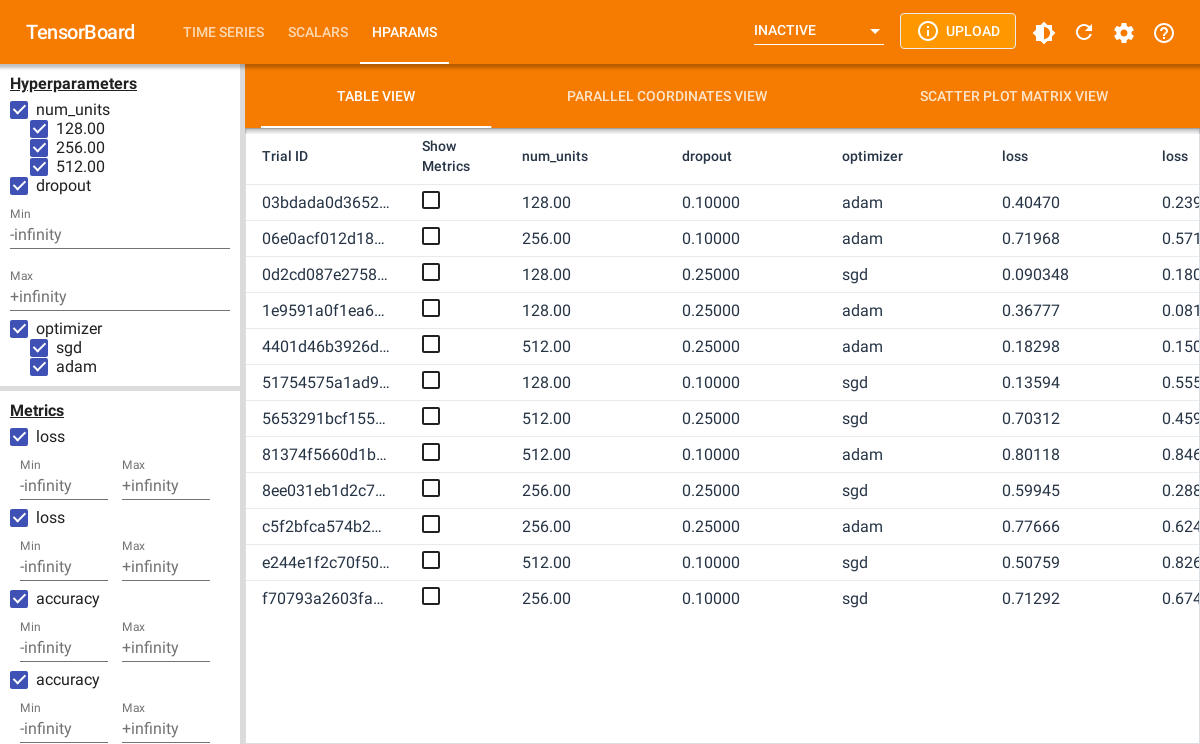
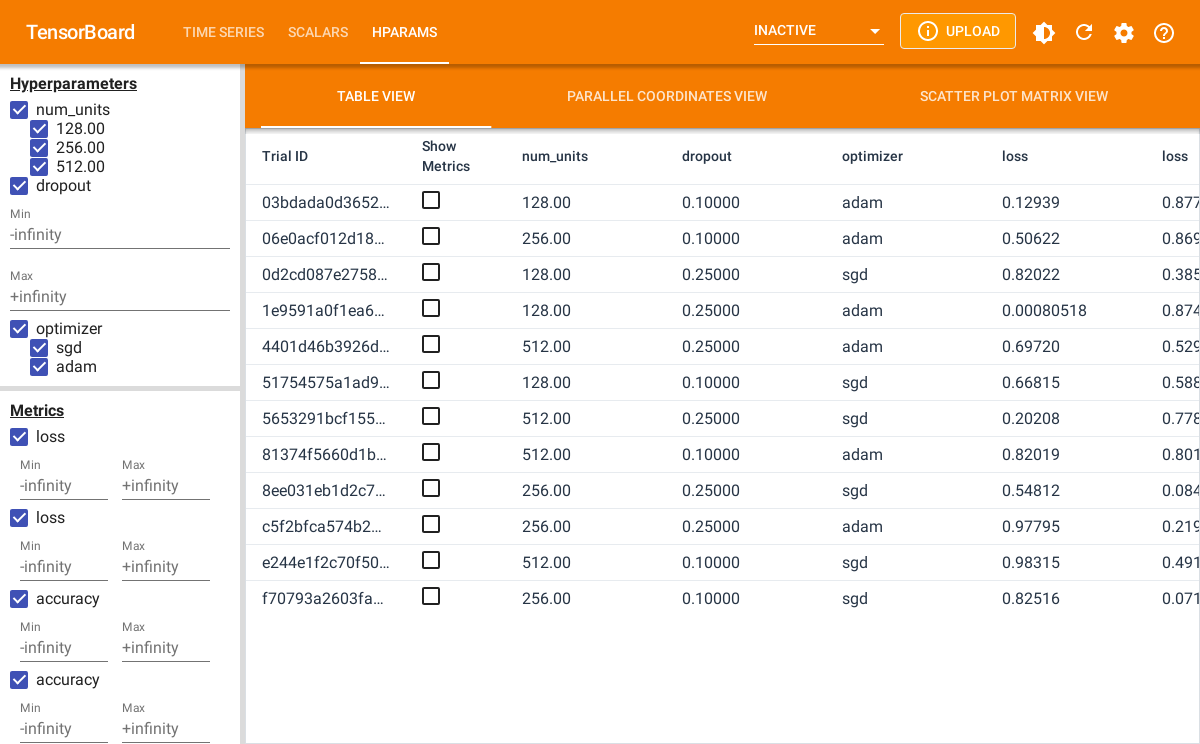
Deploying to gh-pages from @ mlverse/tfevents@a176a4ae159101cf80954fbd7836faf5f0a559c1 🚀

diff --git a/articles/hparams.html b/articles/hparams.html
@@ -197,80 +197,80 @@ sets of hyperparameters.</p>
 <code>temp</code> will be filled with event files.</p>
 <div class="sourceCode" id="cb7"><pre class="downlit sourceCode r">
 <code class="sourceCode R"><span><span class="fu">fs</span><span class="fu">::</span><span class="fu"><a href="https://fs.r-lib.org/reference/dir_tree.html" class="external-link">dir_tree</a></span><span class="op">(</span><span class="va">temp</span><span class="op">)</span></span>
-<span><span class="co">#&gt; <span style="color: #0000BB; font-weight: bold;">/tmp/Rtmpn442bn/logdir1af85866de11</span></span></span>
-<span><span class="co">#&gt; ├── events.out.tfevents.1677663946.v2</span></span>
-<span><span class="co">#&gt; ├── <span style="color: #0000BB; font-weight: bold;">fcepebyhnlqvoty</span></span></span>
-<span><span class="co">#&gt; │   ├── events.out.tfevents.1677663946.v2</span></span>
+<span><span class="co">#&gt; <span style="color: #0000BB; font-weight: bold;">/tmp/RtmpHjZciD/logdir1a6936c532d</span></span></span>
+<span><span class="co">#&gt; ├── <span style="color: #0000BB; font-weight: bold;">ballggycqmbbayz</span></span></span>
+<span><span class="co">#&gt; │   ├── events.out.tfevents.1677748114.v2</span></span>
 <span><span class="co">#&gt; │   ├── <span style="color: #0000BB; font-weight: bold;">train</span></span></span>
-<span><span class="co">#&gt; │   │   └── events.out.tfevents.1677663946.v2</span></span>
+<span><span class="co">#&gt; │   │   └── events.out.tfevents.1677748114.v2</span></span>
 <span><span class="co">#&gt; │   └── <span style="color: #0000BB; font-weight: bold;">valid</span></span></span>
-<span><span class="co">#&gt; │       └── events.out.tfevents.1677663946.v2</span></span>
-<span><span class="co">#&gt; ├── <span style="color: #0000BB; font-weight: bold;">idkndnxreahjifk</span></span></span>
-<span><span class="co">#&gt; │   ├── events.out.tfevents.1677663948.v2</span></span>
+<span><span class="co">#&gt; │       └── events.out.tfevents.1677748114.v2</span></span>
+<span><span class="co">#&gt; ├── <span style="color: #0000BB; font-weight: bold;">dqmiqksmjxnaqnr</span></span></span>
+<span><span class="co">#&gt; │   ├── events.out.tfevents.1677748113.v2</span></span>
 <span><span class="co">#&gt; │   ├── <span style="color: #0000BB; font-weight: bold;">train</span></span></span>
-<span><span class="co">#&gt; │   │   └── events.out.tfevents.1677663948.v2</span></span>
+<span><span class="co">#&gt; │   │   └── events.out.tfevents.1677748113.v2</span></span>
 <span><span class="co">#&gt; │   └── <span style="color: #0000BB; font-weight: bold;">valid</span></span></span>
-<span><span class="co">#&gt; │       └── events.out.tfevents.1677663948.v2</span></span>
-<span><span class="co">#&gt; ├── <span style="color: #0000BB; font-weight: bold;">kbhxfctzqhmdhev</span></span></span>
-<span><span class="co">#&gt; │   ├── events.out.tfevents.1677663947.v2</span></span>
+<span><span class="co">#&gt; │       └── events.out.tfevents.1677748113.v2</span></span>
+<span><span class="co">#&gt; ├── events.out.tfevents.1677748112.v2</span></span>
+<span><span class="co">#&gt; ├── <span style="color: #0000BB; font-weight: bold;">fcwxtfrtdmqofeg</span></span></span>
+<span><span class="co">#&gt; │   ├── events.out.tfevents.1677748114.v2</span></span>
 <span><span class="co">#&gt; │   ├── <span style="color: #0000BB; font-weight: bold;">train</span></span></span>
-<span><span class="co">#&gt; │   │   └── events.out.tfevents.1677663947.v2</span></span>
+<span><span class="co">#&gt; │   │   └── events.out.tfevents.1677748114.v2</span></span>
 <span><span class="co">#&gt; │   └── <span style="color: #0000BB; font-weight: bold;">valid</span></span></span>
-<span><span class="co">#&gt; │       └── events.out.tfevents.1677663947.v2</span></span>
-<span><span class="co">#&gt; ├── <span style="color: #0000BB; font-weight: bold;">lsxbbtusrtdlmps</span></span></span>
-<span><span class="co">#&gt; │   ├── events.out.tfevents.1677663947.v2</span></span>
+<span><span class="co">#&gt; │       └── events.out.tfevents.1677748114.v2</span></span>
+<span><span class="co">#&gt; ├── <span style="color: #0000BB; font-weight: bold;">fjzdzbfmulwoxxc</span></span></span>
+<span><span class="co">#&gt; │   ├── events.out.tfevents.1677748113.v2</span></span>
 <span><span class="co">#&gt; │   ├── <span style="color: #0000BB; font-weight: bold;">train</span></span></span>
-<span><span class="co">#&gt; │   │   └── events.out.tfevents.1677663947.v2</span></span>
+<span><span class="co">#&gt; │   │   └── events.out.tfevents.1677748113.v2</span></span>
 <span><span class="co">#&gt; │   └── <span style="color: #0000BB; font-weight: bold;">valid</span></span></span>
-<span><span class="co">#&gt; │       └── events.out.tfevents.1677663947.v2</span></span>
-<span><span class="co">#&gt; ├── <span style="color: #0000BB; font-weight: bold;">mgilfmcrhqbultn</span></span></span>
-<span><span class="co">#&gt; │   ├── events.out.tfevents.1677663946.v2</span></span>
+<span><span class="co">#&gt; │       └── events.out.tfevents.1677748113.v2</span></span>
+<span><span class="co">#&gt; ├── <span style="color: #0000BB; font-weight: bold;">lheunooutynlrfh</span></span></span>
+<span><span class="co">#&gt; │   ├── events.out.tfevents.1677748112.v2</span></span>
 <span><span class="co">#&gt; │   ├── <span style="color: #0000BB; font-weight: bold;">train</span></span></span>
-<span><span class="co">#&gt; │   │   └── events.out.tfevents.1677663946.v2</span></span>
+<span><span class="co">#&gt; │   │   └── events.out.tfevents.1677748112.v2</span></span>
 <span><span class="co">#&gt; │   └── <span style="color: #0000BB; font-weight: bold;">valid</span></span></span>
-<span><span class="co">#&gt; │       └── events.out.tfevents.1677663946.v2</span></span>
-<span><span class="co">#&gt; ├── <span style="color: #0000BB; font-weight: bold;">njjpzdqgkchdzmc</span></span></span>
-<span><span class="co">#&gt; │   ├── events.out.tfevents.1677663946.v2</span></span>
+<span><span class="co">#&gt; │       └── events.out.tfevents.1677748112.v2</span></span>
+<span><span class="co">#&gt; ├── <span style="color: #0000BB; font-weight: bold;">mxlibjykjgkyyrf</span></span></span>
+<span><span class="co">#&gt; │   ├── events.out.tfevents.1677748112.v2</span></span>
 <span><span class="co">#&gt; │   ├── <span style="color: #0000BB; font-weight: bold;">train</span></span></span>
-<span><span class="co">#&gt; │   │   └── events.out.tfevents.1677663946.v2</span></span>
+<span><span class="co">#&gt; │   │   └── events.out.tfevents.1677748112.v2</span></span>
 <span><span class="co">#&gt; │   └── <span style="color: #0000BB; font-weight: bold;">valid</span></span></span>
-<span><span class="co">#&gt; │       └── events.out.tfevents.1677663946.v2</span></span>
-<span><span class="co">#&gt; ├── <span style="color: #0000BB; font-weight: bold;">ofosgkxxhvklihu</span></span></span>
-<span><span class="co">#&gt; │   ├── events.out.tfevents.1677663947.v2</span></span>
+<span><span class="co">#&gt; │       └── events.out.tfevents.1677748112.v2</span></span>
+<span><span class="co">#&gt; ├── <span style="color: #0000BB; font-weight: bold;">orkivwpymrkepbm</span></span></span>
+<span><span class="co">#&gt; │   ├── events.out.tfevents.1677748113.v2</span></span>
 <span><span class="co">#&gt; │   ├── <span style="color: #0000BB; font-weight: bold;">train</span></span></span>
-<span><span class="co">#&gt; │   │   └── events.out.tfevents.1677663947.v2</span></span>
+<span><span class="co">#&gt; │   │   └── events.out.tfevents.1677748113.v2</span></span>
 <span><span class="co">#&gt; │   └── <span style="color: #0000BB; font-weight: bold;">valid</span></span></span>
-<span><span class="co">#&gt; │       └── events.out.tfevents.1677663947.v2</span></span>
-<span><span class="co">#&gt; ├── <span style="color: #0000BB; font-weight: bold;">oxrftuzxlnfefnk</span></span></span>
-<span><span class="co">#&gt; │   ├── events.out.tfevents.1677663948.v2</span></span>
+<span><span class="co">#&gt; │       └── events.out.tfevents.1677748113.v2</span></span>
+<span><span class="co">#&gt; ├── <span style="color: #0000BB; font-weight: bold;">plizizgodwuzagm</span></span></span>
+<span><span class="co">#&gt; │   ├── events.out.tfevents.1677748114.v2</span></span>
 <span><span class="co">#&gt; │   ├── <span style="color: #0000BB; font-weight: bold;">train</span></span></span>
-<span><span class="co">#&gt; │   │   └── events.out.tfevents.1677663948.v2</span></span>
+<span><span class="co">#&gt; │   │   └── events.out.tfevents.1677748114.v2</span></span>
 <span><span class="co">#&gt; │   └── <span style="color: #0000BB; font-weight: bold;">valid</span></span></span>
-<span><span class="co">#&gt; │       └── events.out.tfevents.1677663948.v2</span></span>
-<span><span class="co">#&gt; ├── <span style="color: #0000BB; font-weight: bold;">psizzxzavmtonun</span></span></span>
-<span><span class="co">#&gt; │   ├── events.out.tfevents.1677663947.v2</span></span>
+<span><span class="co">#&gt; │       └── events.out.tfevents.1677748114.v2</span></span>
+<span><span class="co">#&gt; ├── <span style="color: #0000BB; font-weight: bold;">qrztwahhwkczjbo</span></span></span>
+<span><span class="co">#&gt; │   ├── events.out.tfevents.1677748114.v2</span></span>
 <span><span class="co">#&gt; │   ├── <span style="color: #0000BB; font-weight: bold;">train</span></span></span>
-<span><span class="co">#&gt; │   │   └── events.out.tfevents.1677663947.v2</span></span>
+<span><span class="co">#&gt; │   │   └── events.out.tfevents.1677748114.v2</span></span>
 <span><span class="co">#&gt; │   └── <span style="color: #0000BB; font-weight: bold;">valid</span></span></span>
-<span><span class="co">#&gt; │       └── events.out.tfevents.1677663947.v2</span></span>
-<span><span class="co">#&gt; ├── <span style="color: #0000BB; font-weight: bold;">vhmooquhebehdxr</span></span></span>
-<span><span class="co">#&gt; │   ├── events.out.tfevents.1677663947.v2</span></span>
+<span><span class="co">#&gt; │       └── events.out.tfevents.1677748114.v2</span></span>
+<span><span class="co">#&gt; ├── <span style="color: #0000BB; font-weight: bold;">xpruqozgfbpzjtm</span></span></span>
+<span><span class="co">#&gt; │   ├── events.out.tfevents.1677748113.v2</span></span>
 <span><span class="co">#&gt; │   ├── <span style="color: #0000BB; font-weight: bold;">train</span></span></span>
-<span><span class="co">#&gt; │   │   └── events.out.tfevents.1677663947.v2</span></span>
+<span><span class="co">#&gt; │   │   └── events.out.tfevents.1677748113.v2</span></span>
 <span><span class="co">#&gt; │   └── <span style="color: #0000BB; font-weight: bold;">valid</span></span></span>
-<span><span class="co">#&gt; │       └── events.out.tfevents.1677663947.v2</span></span>
-<span><span class="co">#&gt; ├── <span style="color: #0000BB; font-weight: bold;">ypbreeupvpknzqz</span></span></span>
-<span><span class="co">#&gt; │   ├── events.out.tfevents.1677663947.v2</span></span>
+<span><span class="co">#&gt; │       └── events.out.tfevents.1677748113.v2</span></span>
+<span><span class="co">#&gt; ├── <span style="color: #0000BB; font-weight: bold;">xxwmpuftujczeao</span></span></span>
+<span><span class="co">#&gt; │   ├── events.out.tfevents.1677748112.v2</span></span>
 <span><span class="co">#&gt; │   ├── <span style="color: #0000BB; font-weight: bold;">train</span></span></span>
-<span><span class="co">#&gt; │   │   └── events.out.tfevents.1677663947.v2</span></span>
+<span><span class="co">#&gt; │   │   └── events.out.tfevents.1677748112.v2</span></span>
 <span><span class="co">#&gt; │   └── <span style="color: #0000BB; font-weight: bold;">valid</span></span></span>
-<span><span class="co">#&gt; │       └── events.out.tfevents.1677663947.v2</span></span>
-<span><span class="co">#&gt; └── <span style="color: #0000BB; font-weight: bold;">zntnoxyzogvwkau</span></span></span>
-<span><span class="co">#&gt;     ├── events.out.tfevents.1677663946.v2</span></span>
+<span><span class="co">#&gt; │       └── events.out.tfevents.1677748112.v2</span></span>
+<span><span class="co">#&gt; └── <span style="color: #0000BB; font-weight: bold;">ykbskrptvgaouyg</span></span></span>
+<span><span class="co">#&gt;     ├── events.out.tfevents.1677748113.v2</span></span>
 <span><span class="co">#&gt;     ├── <span style="color: #0000BB; font-weight: bold;">train</span></span></span>
-<span><span class="co">#&gt;     │   └── events.out.tfevents.1677663946.v2</span></span>
+<span><span class="co">#&gt;     │   └── events.out.tfevents.1677748113.v2</span></span>
 <span><span class="co">#&gt;     └── <span style="color: #0000BB; font-weight: bold;">valid</span></span></span>
-<span><span class="co">#&gt;         └── events.out.tfevents.1677663946.v2</span></span></code></pre></div>
+<span><span class="co">#&gt;         └── events.out.tfevents.1677748113.v2</span></span></code></pre></div>
 <p>Finally, we can visualize the experiment results in TensorBoard:</p>
 <div class="sourceCode" id="cb8"><pre class="downlit sourceCode r">
 <code class="sourceCode R"><span><span class="fu">tensorflow</span><span class="fu">::</span><span class="fu"><a href="https://rdrr.io/pkg/tensorflow/man/tensorboard.html" class="external-link">tensorboard</a></span><span class="op">(</span><span class="va">temp</span>, port <span class="op">=</span> <span class="fl">6060</span><span class="op">)</span></span>

diff --git a/articles/read.html b/articles/read.html
@@ -178,34 +178,34 @@ matter the size of the summary_values vector that you pass.</p>
 <code class="sourceCode R"><span><span class="co"># we remove the first summary, as it's a text summary</span></span>
 <span><span class="fu"><a href="../reference/value.html">value</a></span><span class="op">(</span><span class="va">summaries</span><span class="op">$</span><span class="va">summary</span><span class="op">[</span><span class="op">-</span><span class="fl">1</span><span class="op">]</span>, as_list <span class="op">=</span> <span class="cn">TRUE</span><span class="op">)</span></span>
 <span><span class="co">#&gt; [[1]]</span></span>
-<span><span class="co">#&gt; [1] 0.6161485</span></span>
+<span><span class="co">#&gt; [1] 0.5809893</span></span>
 <span><span class="co">#&gt; </span></span>
 <span><span class="co">#&gt; [[2]]</span></span>
-<span><span class="co">#&gt; [1] 0.111779</span></span>
+<span><span class="co">#&gt; [1] 0.6474293</span></span>
 <span><span class="co">#&gt; </span></span>
 <span><span class="co">#&gt; [[3]]</span></span>
-<span><span class="co">#&gt; [1] 2.182474</span></span>
+<span><span class="co">#&gt; [1] 1.434889</span></span>
 <span><span class="co">#&gt; </span></span>
 <span><span class="co">#&gt; [[4]]</span></span>
-<span><span class="co">#&gt; [1] 0.2947489</span></span>
+<span><span class="co">#&gt; [1] 1.232181</span></span>
 <span><span class="co">#&gt; </span></span>
 <span><span class="co">#&gt; [[5]]</span></span>
-<span><span class="co">#&gt; [1] 1.669016</span></span>
+<span><span class="co">#&gt; [1] 3.532491</span></span>
 <span><span class="co">#&gt; </span></span>
 <span><span class="co">#&gt; [[6]]</span></span>
-<span><span class="co">#&gt; [1] 1.924397</span></span>
+<span><span class="co">#&gt; [1] 3.334876</span></span>
 <span><span class="co">#&gt; </span></span>
 <span><span class="co">#&gt; [[7]]</span></span>
-<span><span class="co">#&gt; [1] 1.066157</span></span>
+<span><span class="co">#&gt; [1] 5.016222</span></span>
 <span><span class="co">#&gt; </span></span>
 <span><span class="co">#&gt; [[8]]</span></span>
-<span><span class="co">#&gt; [1] 4.155633</span></span>
+<span><span class="co">#&gt; [1] 1.908642</span></span>
 <span><span class="co">#&gt; </span></span>
 <span><span class="co">#&gt; [[9]]</span></span>
-<span><span class="co">#&gt; [1] 7.640159</span></span>
+<span><span class="co">#&gt; [1] 1.36121</span></span>
 <span><span class="co">#&gt; </span></span>
 <span><span class="co">#&gt; [[10]]</span></span>
-<span><span class="co">#&gt; [1] 3.48781</span></span></code></pre></div>
+<span><span class="co">#&gt; [1] 7.178261</span></span></code></pre></div>
 <p>If you are only interested in scalar summaries, you can use
 <code>type="scalar"</code> in <code>collect_events</code>:</p>
 <div class="sourceCode" id="cb8"><pre class="downlit sourceCode r">
@@ -214,16 +214,16 @@ matter the size of the summary_values vector that you pass.</p>
 <span><span class="co">#&gt; <span style="color: #949494;"># A tibble: 10 × 7</span></span></span>
 <span><span class="co">#&gt;         event run    step    summary tag   plugin  value</span></span>
 <span><span class="co">#&gt;    <span style="color: #949494; font-style: italic;">&lt;tfvnts_v&gt;</span> <span style="color: #949494; font-style: italic;">&lt;chr&gt;</span> <span style="color: #949494; font-style: italic;">&lt;int&gt;</span> <span style="color: #949494; font-style: italic;">&lt;tfvnts__&gt;</span> <span style="color: #949494; font-style: italic;">&lt;chr&gt;</span> <span style="color: #949494; font-style: italic;">&lt;chr&gt;</span>   <span style="color: #949494; font-style: italic;">&lt;dbl&gt;</span></span></span>
-<span><span class="co">#&gt; <span style="color: #BCBCBC;"> 1</span>     &lt;./ 1&gt; .         1    &lt;hello&gt; hello scalars 0.616</span></span>
-<span><span class="co">#&gt; <span style="color: #BCBCBC;"> 2</span>     &lt;./ 2&gt; .         2    &lt;hello&gt; hello scalars 0.112</span></span>
-<span><span class="co">#&gt; <span style="color: #BCBCBC;"> 3</span>     &lt;./ 3&gt; .         3    &lt;hello&gt; hello scalars 2.18 </span></span>
-<span><span class="co">#&gt; <span style="color: #BCBCBC;"> 4</span>     &lt;./ 4&gt; .         4    &lt;hello&gt; hello scalars 0.295</span></span>
-<span><span class="co">#&gt; <span style="color: #BCBCBC;"> 5</span>     &lt;./ 5&gt; .         5    &lt;hello&gt; hello scalars 1.67 </span></span>
-<span><span class="co">#&gt; <span style="color: #BCBCBC;"> 6</span>     &lt;./ 6&gt; .         6    &lt;hello&gt; hello scalars 1.92 </span></span>
-<span><span class="co">#&gt; <span style="color: #BCBCBC;"> 7</span>     &lt;./ 7&gt; .         7    &lt;hello&gt; hello scalars 1.07 </span></span>
-<span><span class="co">#&gt; <span style="color: #BCBCBC;"> 8</span>     &lt;./ 8&gt; .         8    &lt;hello&gt; hello scalars 4.16 </span></span>
-<span><span class="co">#&gt; <span style="color: #BCBCBC;"> 9</span>     &lt;./ 9&gt; .         9    &lt;hello&gt; hello scalars 7.64 </span></span>
-<span><span class="co">#&gt; <span style="color: #BCBCBC;">10</span>     &lt;./10&gt; .        10    &lt;hello&gt; hello scalars 3.49</span></span></code></pre></div>
+<span><span class="co">#&gt; <span style="color: #BCBCBC;"> 1</span>     &lt;./ 1&gt; .         1    &lt;hello&gt; hello scalars 0.581</span></span>
+<span><span class="co">#&gt; <span style="color: #BCBCBC;"> 2</span>     &lt;./ 2&gt; .         2    &lt;hello&gt; hello scalars 0.647</span></span>
+<span><span class="co">#&gt; <span style="color: #BCBCBC;"> 3</span>     &lt;./ 3&gt; .         3    &lt;hello&gt; hello scalars 1.43 </span></span>
+<span><span class="co">#&gt; <span style="color: #BCBCBC;"> 4</span>     &lt;./ 4&gt; .         4    &lt;hello&gt; hello scalars 1.23 </span></span>
+<span><span class="co">#&gt; <span style="color: #BCBCBC;"> 5</span>     &lt;./ 5&gt; .         5    &lt;hello&gt; hello scalars 3.53 </span></span>
+<span><span class="co">#&gt; <span style="color: #BCBCBC;"> 6</span>     &lt;./ 6&gt; .         6    &lt;hello&gt; hello scalars 3.33 </span></span>
+<span><span class="co">#&gt; <span style="color: #BCBCBC;"> 7</span>     &lt;./ 7&gt; .         7    &lt;hello&gt; hello scalars 5.02 </span></span>
+<span><span class="co">#&gt; <span style="color: #BCBCBC;"> 8</span>     &lt;./ 8&gt; .         8    &lt;hello&gt; hello scalars 1.91 </span></span>
+<span><span class="co">#&gt; <span style="color: #BCBCBC;"> 9</span>     &lt;./ 9&gt; .         9    &lt;hello&gt; hello scalars 1.36 </span></span>
+<span><span class="co">#&gt; <span style="color: #BCBCBC;">10</span>     &lt;./10&gt; .        10    &lt;hello&gt; hello scalars 7.18</span></span></code></pre></div>
 <p>Now, values can be expanded in the data frame and you get a ready to
 use data frame, for example:</p>
 <div class="sourceCode" id="cb9"><pre class="downlit sourceCode r">
@@ -246,7 +246,7 @@ load events in smaller batches.</p>
 <span><span class="co">#&gt; <span style="color: #949494;"># A tibble: 1 × 7</span></span></span>
 <span><span class="co">#&gt;        event run    step    summary tag   plugin  value</span></span>
 <span><span class="co">#&gt;   <span style="color: #949494; font-style: italic;">&lt;tfvnts_v&gt;</span> <span style="color: #949494; font-style: italic;">&lt;chr&gt;</span> <span style="color: #949494; font-style: italic;">&lt;int&gt;</span> <span style="color: #949494; font-style: italic;">&lt;tfvnts__&gt;</span> <span style="color: #949494; font-style: italic;">&lt;chr&gt;</span> <span style="color: #949494; font-style: italic;">&lt;chr&gt;</span>   <span style="color: #949494; font-style: italic;">&lt;dbl&gt;</span></span></span>
-<span><span class="co">#&gt; <span style="color: #BCBCBC;">1</span>      &lt;./1&gt; .         1    &lt;hello&gt; hello scalars 0.616</span></span></code></pre></div>
+<span><span class="co">#&gt; <span style="color: #BCBCBC;">1</span>      &lt;./1&gt; .         1    &lt;hello&gt; hello scalars 0.581</span></span></code></pre></div>
 <p>Notice that the first call to <code>collect_events</code> collected
 the first scalar summary event in the directory because of
 <code>n = 1</code>. The next call will collect the remaining ones as by
@@ -256,15 +256,15 @@ default <code>n = NULL</code>.</p>
 <span><span class="co">#&gt; <span style="color: #949494;"># A tibble: 9 × 7</span></span></span>
 <span><span class="co">#&gt;        event run    step    summary tag   plugin  value</span></span>
 <span><span class="co">#&gt;   <span style="color: #949494; font-style: italic;">&lt;tfvnts_v&gt;</span> <span style="color: #949494; font-style: italic;">&lt;chr&gt;</span> <span style="color: #949494; font-style: italic;">&lt;int&gt;</span> <span style="color: #949494; font-style: italic;">&lt;tfvnts__&gt;</span> <span style="color: #949494; font-style: italic;">&lt;chr&gt;</span> <span style="color: #949494; font-style: italic;">&lt;chr&gt;</span>   <span style="color: #949494; font-style: italic;">&lt;dbl&gt;</span></span></span>
-<span><span class="co">#&gt; <span style="color: #BCBCBC;">1</span>     &lt;./ 2&gt; .         2    &lt;hello&gt; hello scalars 0.112</span></span>
-<span><span class="co">#&gt; <span style="color: #BCBCBC;">2</span>     &lt;./ 3&gt; .         3    &lt;hello&gt; hello scalars 2.18 </span></span>
-<span><span class="co">#&gt; <span style="color: #BCBCBC;">3</span>     &lt;./ 4&gt; .         4    &lt;hello&gt; hello scalars 0.295</span></span>
-<span><span class="co">#&gt; <span style="color: #BCBCBC;">4</span>     &lt;./ 5&gt; .         5    &lt;hello&gt; hello scalars 1.67 </span></span>
-<span><span class="co">#&gt; <span style="color: #BCBCBC;">5</span>     &lt;./ 6&gt; .         6    &lt;hello&gt; hello scalars 1.92 </span></span>
-<span><span class="co">#&gt; <span style="color: #BCBCBC;">6</span>     &lt;./ 7&gt; .         7    &lt;hello&gt; hello scalars 1.07 </span></span>
-<span><span class="co">#&gt; <span style="color: #BCBCBC;">7</span>     &lt;./ 8&gt; .         8    &lt;hello&gt; hello scalars 4.16 </span></span>
-<span><span class="co">#&gt; <span style="color: #BCBCBC;">8</span>     &lt;./ 9&gt; .         9    &lt;hello&gt; hello scalars 7.64 </span></span>
-<span><span class="co">#&gt; <span style="color: #BCBCBC;">9</span>     &lt;./10&gt; .        10    &lt;hello&gt; hello scalars 3.49</span></span></code></pre></div>
+<span><span class="co">#&gt; <span style="color: #BCBCBC;">1</span>     &lt;./ 2&gt; .         2    &lt;hello&gt; hello scalars 0.647</span></span>
+<span><span class="co">#&gt; <span style="color: #BCBCBC;">2</span>     &lt;./ 3&gt; .         3    &lt;hello&gt; hello scalars 1.43 </span></span>
+<span><span class="co">#&gt; <span style="color: #BCBCBC;">3</span>     &lt;./ 4&gt; .         4    &lt;hello&gt; hello scalars 1.23 </span></span>
+<span><span class="co">#&gt; <span style="color: #BCBCBC;">4</span>     &lt;./ 5&gt; .         5    &lt;hello&gt; hello scalars 3.53 </span></span>
+<span><span class="co">#&gt; <span style="color: #BCBCBC;">5</span>     &lt;./ 6&gt; .         6    &lt;hello&gt; hello scalars 3.33 </span></span>
+<span><span class="co">#&gt; <span style="color: #BCBCBC;">6</span>     &lt;./ 7&gt; .         7    &lt;hello&gt; hello scalars 5.02 </span></span>
+<span><span class="co">#&gt; <span style="color: #BCBCBC;">7</span>     &lt;./ 8&gt; .         8    &lt;hello&gt; hello scalars 1.91 </span></span>
+<span><span class="co">#&gt; <span style="color: #BCBCBC;">8</span>     &lt;./ 9&gt; .         9    &lt;hello&gt; hello scalars 1.36 </span></span>
+<span><span class="co">#&gt; <span style="color: #BCBCBC;">9</span>     &lt;./10&gt; .        10    &lt;hello&gt; hello scalars 7.18</span></span></code></pre></div>
 <p>We can now log some more scalars and recollect, you will see that the
 events that were just written are now collected.</p>
 <div class="sourceCode" id="cb12"><pre class="downlit sourceCode r">
@@ -275,9 +275,9 @@ events that were just written are now collected.</p>
 <span><span class="co">#&gt; <span style="color: #949494;"># A tibble: 3 × 7</span></span></span>
 <span><span class="co">#&gt;        event run    step    summary tag   plugin  value</span></span>
 <span><span class="co">#&gt;   <span style="color: #949494; font-style: italic;">&lt;tfvnts_v&gt;</span> <span style="color: #949494; font-style: italic;">&lt;chr&gt;</span> <span style="color: #949494; font-style: italic;">&lt;int&gt;</span> <span style="color: #949494; font-style: italic;">&lt;tfvnts__&gt;</span> <span style="color: #949494; font-style: italic;">&lt;chr&gt;</span> <span style="color: #949494; font-style: italic;">&lt;chr&gt;</span>   <span style="color: #949494; font-style: italic;">&lt;dbl&gt;</span></span></span>
-<span><span class="co">#&gt; <span style="color: #BCBCBC;">1</span>     &lt;./11&gt; .        11    &lt;hello&gt; hello scalars 0.245</span></span>
-<span><span class="co">#&gt; <span style="color: #BCBCBC;">2</span>     &lt;./12&gt; .        12    &lt;hello&gt; hello scalars 0.216</span></span>
-<span><span class="co">#&gt; <span style="color: #BCBCBC;">3</span>     &lt;./13&gt; .        13    &lt;hello&gt; hello scalars 1.84</span></span></code></pre></div>
+<span><span class="co">#&gt; <span style="color: #BCBCBC;">1</span>     &lt;./11&gt; .        11    &lt;hello&gt; hello scalars 0.770</span></span>
+<span><span class="co">#&gt; <span style="color: #BCBCBC;">2</span>     &lt;./12&gt; .        12    &lt;hello&gt; hello scalars 0.785</span></span>
+<span><span class="co">#&gt; <span style="color: #BCBCBC;">3</span>     &lt;./13&gt; .        13    &lt;hello&gt; hello scalars 0.629</span></span></code></pre></div>
 <p>This interface allows you to efficiently read tfevents records
 without having them all on RAM at once, or work in a streaming way in a
 sense that a process might be writing tfevents (for example in a

diff --git a/reference/collect_events.html b/reference/collect_events.html
@@ -135,13 +135,13 @@ to read further events later.</p></li>
 <span class="r-in"><span><span class="co"># collect only scalar events</span></span></span>
 <span class="r-in"><span><span class="fu">collect_events</span><span class="op">(</span><span class="va">temp</span>, type <span class="op">=</span> <span class="st">"scalar"</span><span class="op">)</span></span></span>
 <span class="r-out co"><span class="r-pr">#&gt;</span> <span style="color: #949494;"># A tibble: 5 × 7</span></span>
-<span class="r-out co"><span class="r-pr">#&gt;</span>        event run    step    summary tag    plugin  value</span>
-<span class="r-out co"><span class="r-pr">#&gt;</span>   <span style="color: #949494; font-style: italic;">&lt;tfvnts_v&gt;</span> <span style="color: #949494; font-style: italic;">&lt;chr&gt;</span> <span style="color: #949494; font-style: italic;">&lt;int&gt;</span> <span style="color: #949494; font-style: italic;">&lt;tfvnts__&gt;</span> <span style="color: #949494; font-style: italic;">&lt;chr&gt;</span>  <span style="color: #949494; font-style: italic;">&lt;chr&gt;</span>   <span style="color: #949494; font-style: italic;">&lt;dbl&gt;</span></span>
-<span class="r-out co"><span class="r-pr">#&gt;</span> <span style="color: #BCBCBC;">1</span>      &lt;./0&gt; .         0   &lt;my_log&gt; my_log scalars 0.933</span>
-<span class="r-out co"><span class="r-pr">#&gt;</span> <span style="color: #BCBCBC;">2</span>      &lt;./1&gt; .         1   &lt;my_log&gt; my_log scalars 0.153</span>
-<span class="r-out co"><span class="r-pr">#&gt;</span> <span style="color: #BCBCBC;">3</span>      &lt;./2&gt; .         2   &lt;my_log&gt; my_log scalars 0.812</span>
-<span class="r-out co"><span class="r-pr">#&gt;</span> <span style="color: #BCBCBC;">4</span>      &lt;./3&gt; .         3   &lt;my_log&gt; my_log scalars 0.734</span>
-<span class="r-out co"><span class="r-pr">#&gt;</span> <span style="color: #BCBCBC;">5</span>      &lt;./4&gt; .         4   &lt;my_log&gt; my_log scalars 0.484</span>
+<span class="r-out co"><span class="r-pr">#&gt;</span>        event run    step    summary tag    plugin    value</span>
+<span class="r-out co"><span class="r-pr">#&gt;</span>   <span style="color: #949494; font-style: italic;">&lt;tfvnts_v&gt;</span> <span style="color: #949494; font-style: italic;">&lt;chr&gt;</span> <span style="color: #949494; font-style: italic;">&lt;int&gt;</span> <span style="color: #949494; font-style: italic;">&lt;tfvnts__&gt;</span> <span style="color: #949494; font-style: italic;">&lt;chr&gt;</span>  <span style="color: #949494; font-style: italic;">&lt;chr&gt;</span>     <span style="color: #949494; font-style: italic;">&lt;dbl&gt;</span></span>
+<span class="r-out co"><span class="r-pr">#&gt;</span> <span style="color: #BCBCBC;">1</span>      &lt;./0&gt; .         0   &lt;my_log&gt; my_log scalars 0.383  </span>
+<span class="r-out co"><span class="r-pr">#&gt;</span> <span style="color: #BCBCBC;">2</span>      &lt;./1&gt; .         1   &lt;my_log&gt; my_log scalars 0.176  </span>
+<span class="r-out co"><span class="r-pr">#&gt;</span> <span style="color: #BCBCBC;">3</span>      &lt;./2&gt; .         2   &lt;my_log&gt; my_log scalars 0.707  </span>
+<span class="r-out co"><span class="r-pr">#&gt;</span> <span style="color: #BCBCBC;">4</span>      &lt;./3&gt; .         3   &lt;my_log&gt; my_log scalars 0.395  </span>
+<span class="r-out co"><span class="r-pr">#&gt;</span> <span style="color: #BCBCBC;">5</span>      &lt;./4&gt; .         4   &lt;my_log&gt; my_log scalars 0.006<span style="text-decoration: underline;">87</span></span>
 <span class="r-in"><span></span></span>
 </code></pre></div>
     </div>

diff --git a/reference/get_default_logdir.html b/reference/get_default_logdir.html
@@ -115,7 +115,7 @@ at every call. These functions allow you to query and the current logdir.</p>
 <span class="r-in"><span><span class="fu">with_logdir</span><span class="op">(</span><span class="va">temp</span>, <span class="op">{</span></span></span>
 <span class="r-in"><span> <span class="fu"><a href="https://rdrr.io/r/base/print.html" class="external-link">print</a></span><span class="op">(</span><span class="fu">get_default_logdir</span><span class="op">(</span><span class="op">)</span><span class="op">)</span></span></span>
 <span class="r-in"><span><span class="op">}</span><span class="op">)</span></span></span>
-<span class="r-out co"><span class="r-pr">#&gt;</span> [1] "/tmp/RtmpJnlYye/file195860f97a85"</span>
+<span class="r-out co"><span class="r-pr">#&gt;</span> [1] "/tmp/RtmpNfp7LD/file18c87452315f"</span>
 </code></pre></div>
     </div>
   </main><aside class="col-md-3"><nav id="toc"><h2>On this page</h2>

diff --git a/reference/value.html b/reference/value.html
@@ -119,7 +119,7 @@ scalar.</p>
 <span class="r-in"><span><span class="co"># iterate over all events</span></span></span>
 <span class="r-in"><span><span class="va">summary</span> <span class="op">&lt;-</span> <span class="fu"><a href="collect_events.html">collect_events</a></span><span class="op">(</span><span class="va">temp</span>, n <span class="op">=</span> <span class="fl">1</span>, type <span class="op">=</span> <span class="st">"summary"</span><span class="op">)</span></span></span>
 <span class="r-in"><span><span class="fu">value</span><span class="op">(</span><span class="va">summary</span><span class="op">$</span><span class="va">summary</span><span class="op">)</span></span></span>
-<span class="r-out co"><span class="r-pr">#&gt;</span> [1] 0.7667826</span>
+<span class="r-out co"><span class="r-pr">#&gt;</span> [1] 0.3222128</span>
 <span class="r-in"><span></span></span>
 </code></pre></div>
     </div>
